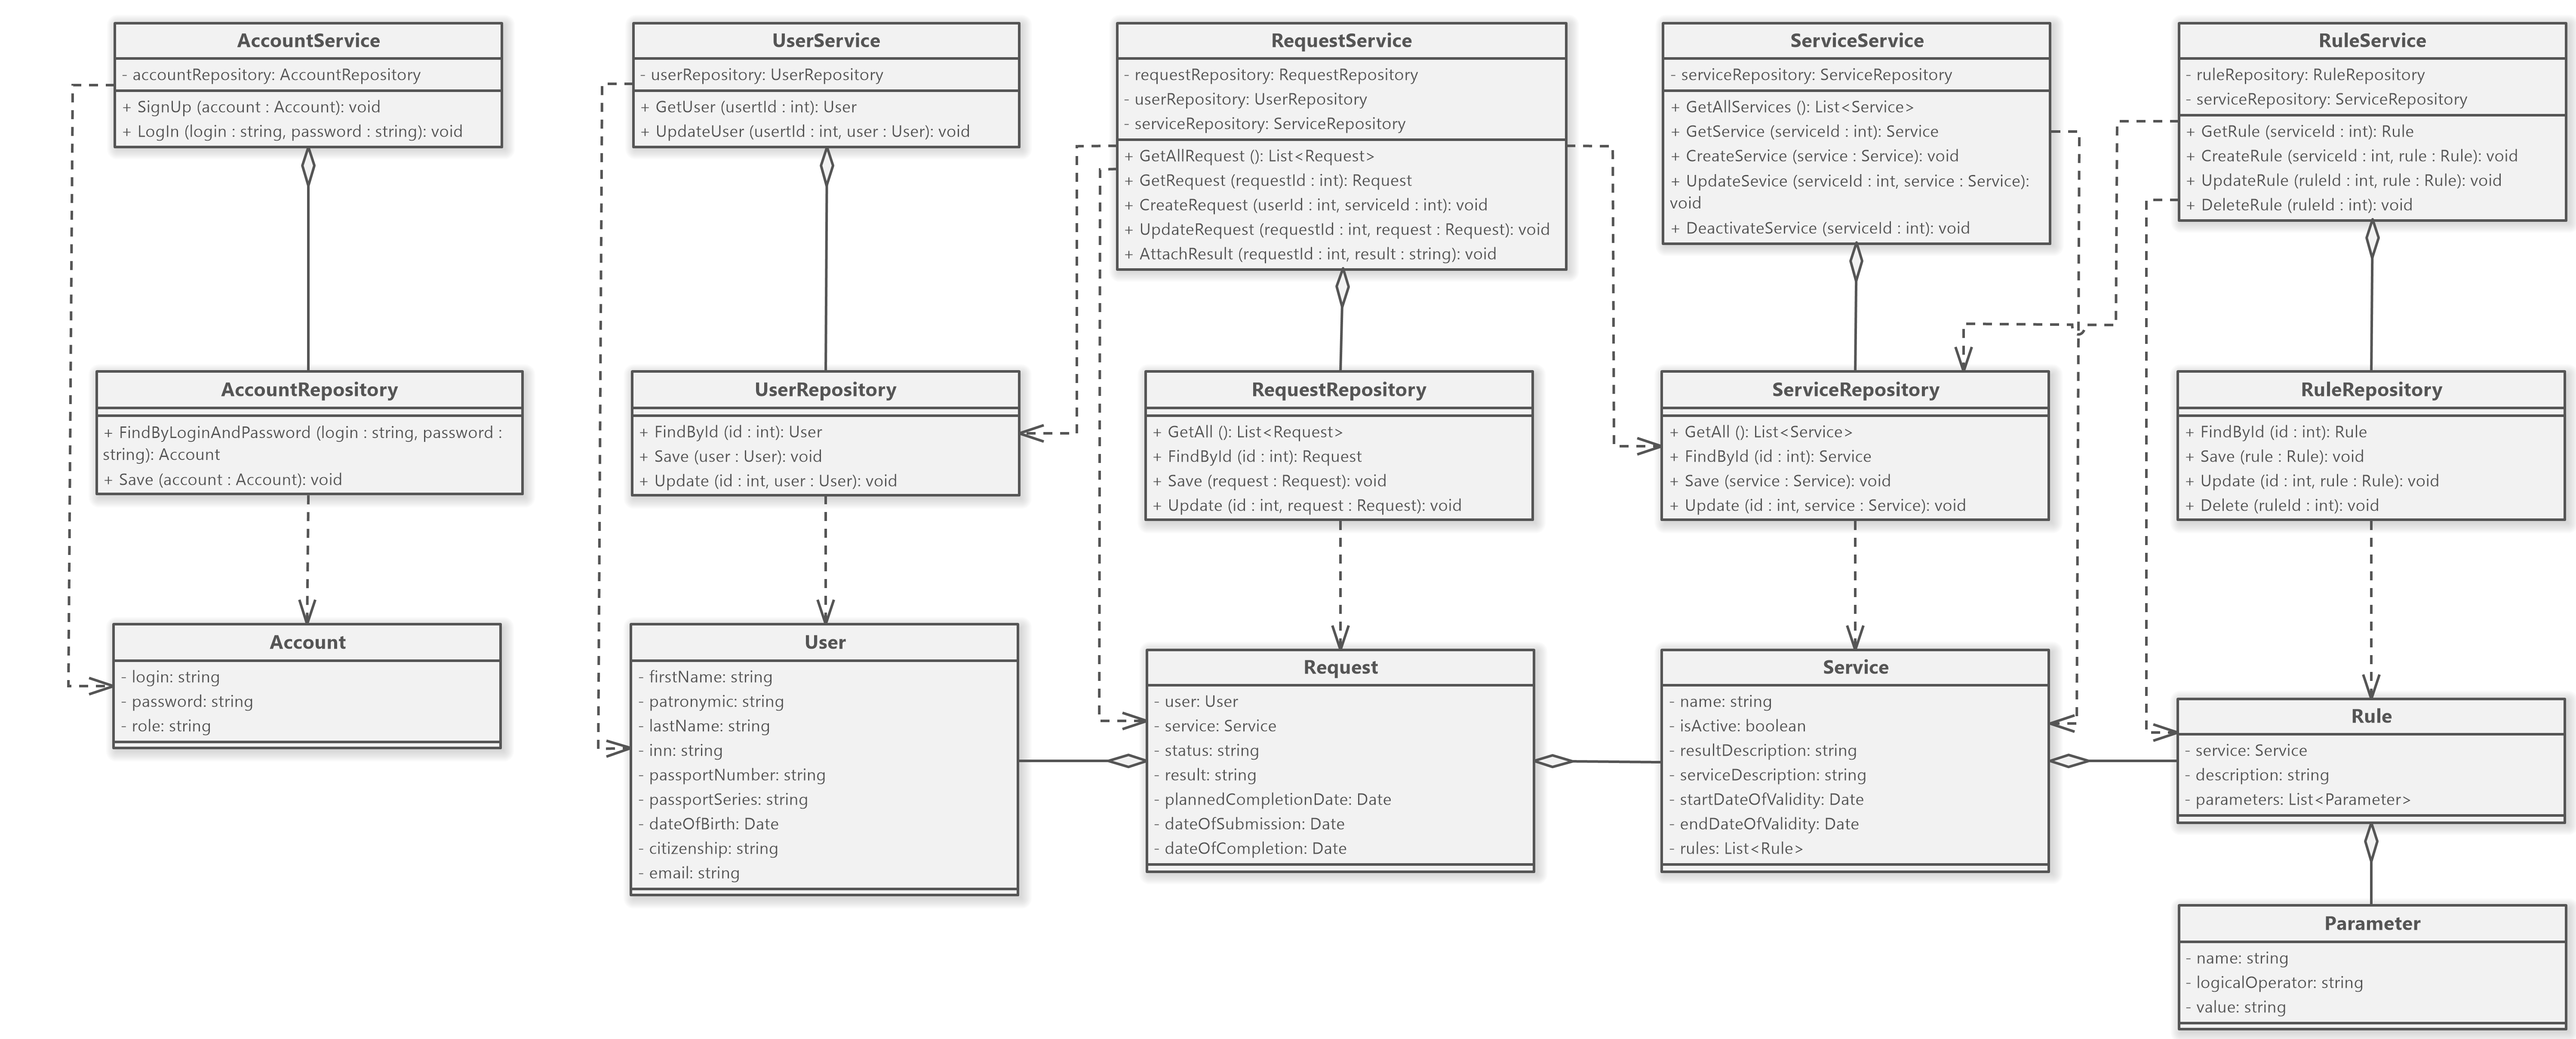
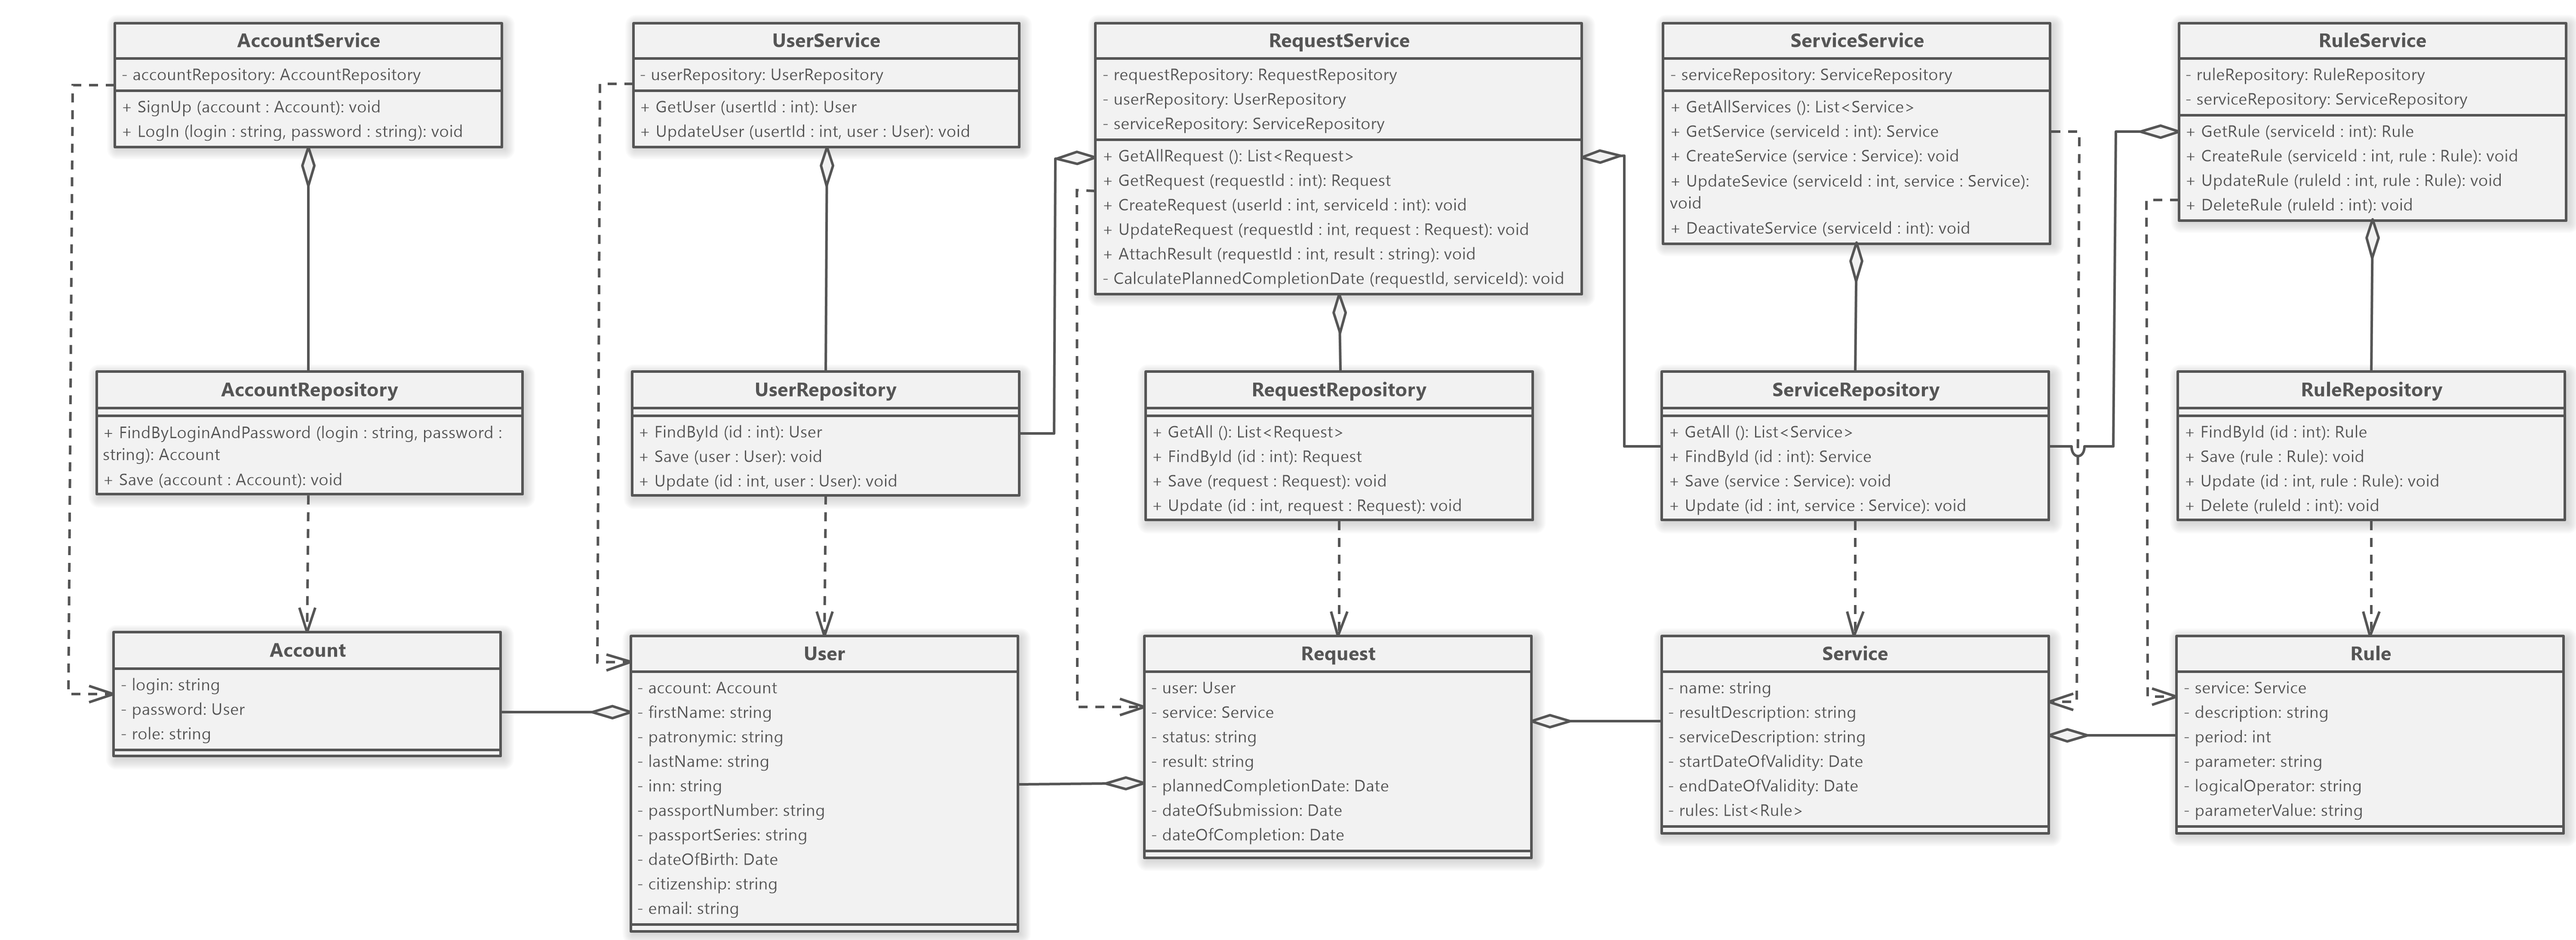
Remake Classes Two

diff --git a/3. Диаграмма классов/Классы.md b/3. Диаграмма классов/Классы.md
@@ -60,6 +60,7 @@
 - CreateRequest — создаёт заявку
 - UpdateRequest — обновляет заявку
 - AttachResult — прикрепляет результат
+- CalculatePlannedCompletionDate — вычисляет примерный срок выполнения
 
 ---
 ### AccountRepository
@@ -91,6 +92,7 @@
 - password — пароль
 - role — роль (администратор / госслужащий / пользователь)
 ### User
+- account — аккаунт пользователя
 - firstName — имя
 - patronymic — отчество
 - lastName — фамилия
@@ -102,7 +104,6 @@
 - email — электронная почта
 ### Service
 - name — название
-- isActive — активная ли услуга (не находится ли в «архиве»)
 - resultDescription — описание результата
 - serviceDescription — описание услуги
 - startDateOfValidity — дата, с которого услуга доступна
@@ -111,11 +112,10 @@
 ### Rule
 - service — ссылка на услугу
 - description — описание правила
-- parameters — набор параметров
-### Parameter
-- name — название
+- period — срок
+- parameter — параметр
 - logicalOperator — тип оператора
-- value — значение
+- parameterValue — значение параметра
 ### Request
 - user — пользователь, подавший заявку
 - service — услуга
